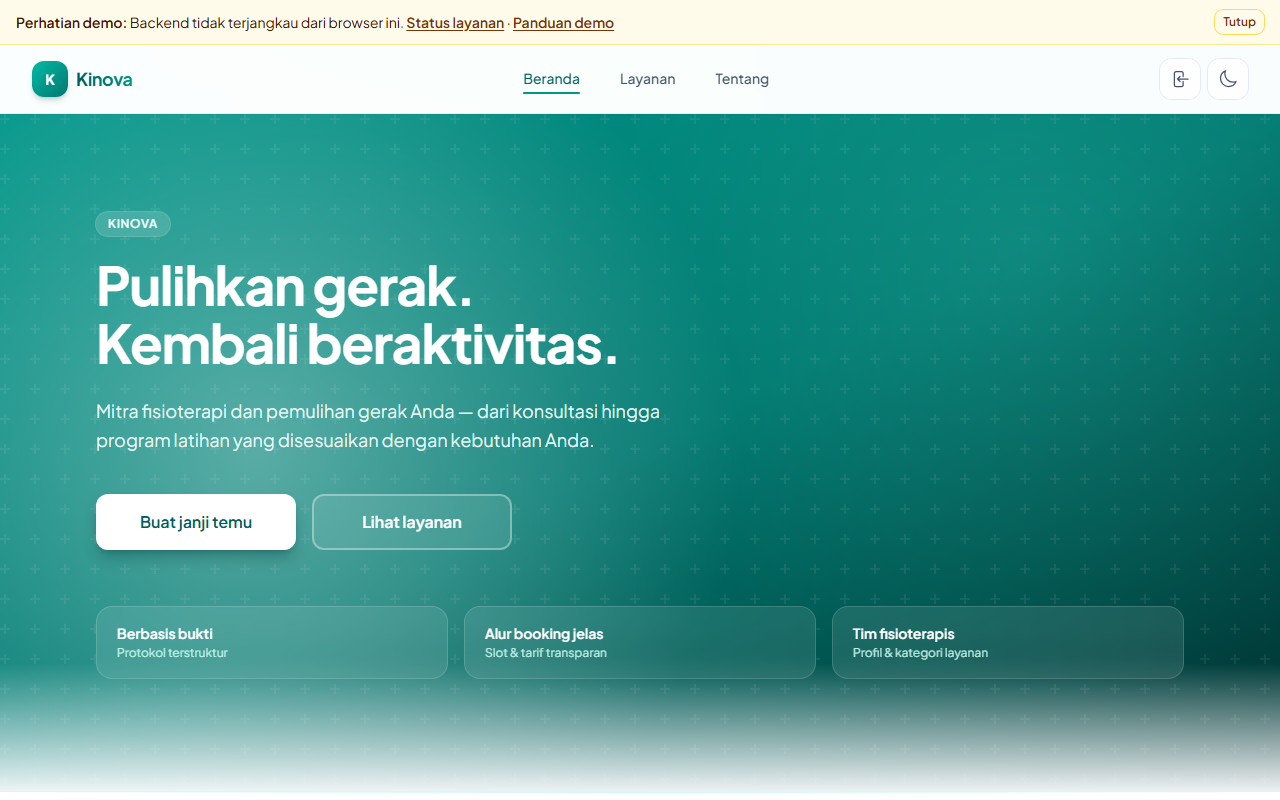
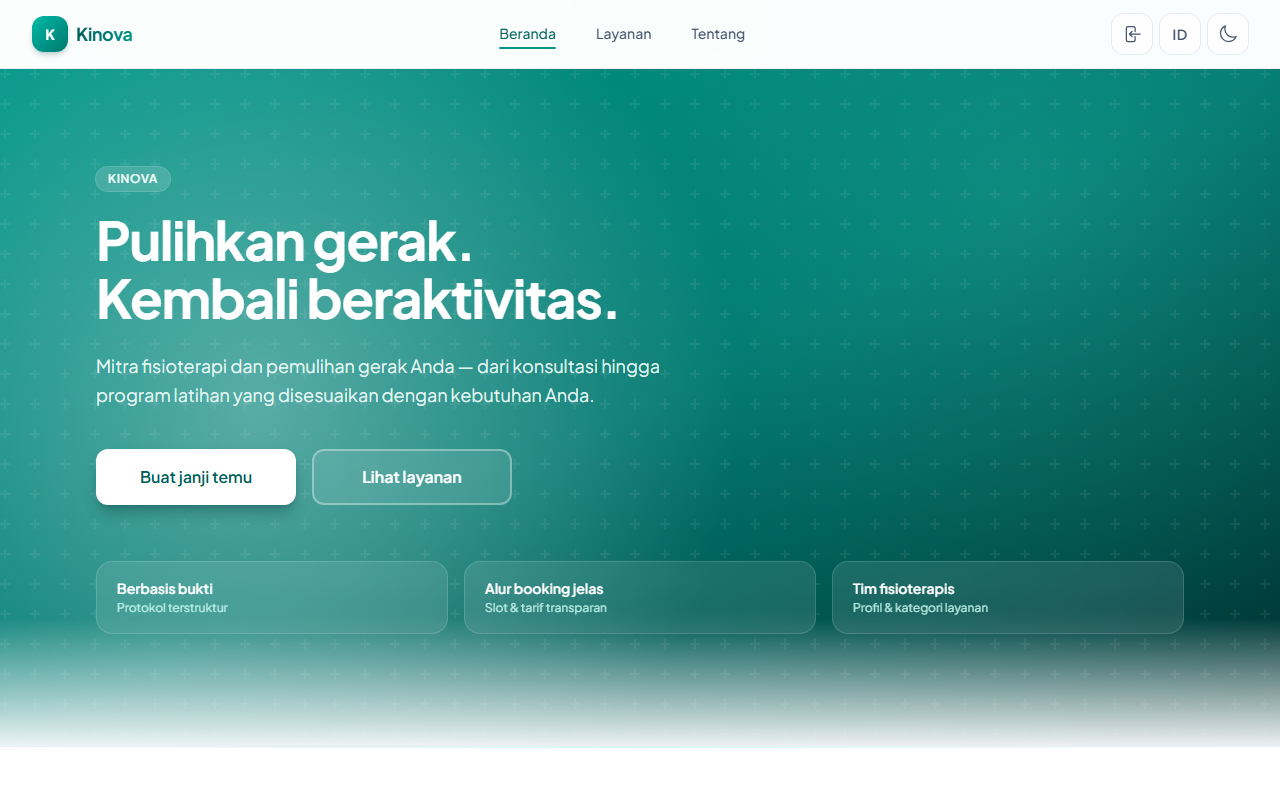
Add Kinova screenshot gallery to the projects showcase.
Refresh live captures across landing, patient, and admin flows, and let visitors switch previews from a thumbnail strip.

diff --git a/src/components/sections/Projects.tsx b/src/components/sections/Projects.tsx
@@ -43,12 +43,18 @@ function ProjectLinks({ project }: { project: Project }) {
   );
 }
 
-function ProjectCardFace({ project }: { project: Project }) {
+function ProjectCardFace({
+  project,
+  imageSrc,
+}: {
+  project: Project;
+  imageSrc?: string;
+}) {
   return (
     <div className="overflow-hidden rounded-2xl border border-border bg-surface shadow-sm">
       <div className="relative aspect-[16/10] bg-bg-muted">
         <Image
-          src={project.image}
+          src={imageSrc ?? project.image}
           alt={`${project.title} project screenshot`}
           fill
           sizes="(max-width: 1024px) 100vw, 480px"
@@ -59,10 +65,60 @@ function ProjectCardFace({ project }: { project: Project }) {
   );
 }
 
+function ProjectGallery({
+  images,
+  activeSrc,
+  onSelect,
+  projectTitle,
+}: {
+  images: string[];
+  activeSrc: string;
+  onSelect: (src: string) => void;
+  projectTitle: string;
+}) {
+  const { locale } = useLocale();
+
+  return (
+    <div className="mt-6">
+      <p className="mb-3 text-xs font-medium uppercase tracking-[0.18em] text-ink-soft">
+        {t(ui.projectScreenshots, locale)}
+      </p>
+      <div className="-mx-1 flex gap-2 overflow-x-auto px-1 pb-1">
+        {images.map((src, index) => {
+          const selected = src === activeSrc;
+          return (
+            <button
+              key={src}
+              type="button"
+              onClick={() => onSelect(src)}
+              aria-label={`${projectTitle} screenshot ${index + 1}`}
+              aria-pressed={selected}
+              className={`relative h-16 w-24 shrink-0 overflow-hidden rounded-lg border transition ${
+                selected
+                  ? "border-ink ring-2 ring-ink/20"
+                  : "border-border opacity-80 hover:opacity-100"
+              }`}
+            >
+              <Image
+                src={src}
+                alt=""
+                fill
+                sizes="96px"
+                className="object-cover object-top"
+              />
+            </button>
+          );
+        })}
+      </div>
+    </div>
+  );
+}
+
 export default function Projects() {
   const { locale } = useLocale();
   const [filter, setFilter] = useState<FilterId>("all");
   const [activeIndex, setActiveIndex] = useState(0);
+  const [previewSrc, setPreviewSrc] = useState<string | null>(null);
 
   const filters: { id: FilterId; label: string }[] = [
     { id: "all", label: t(ui.showAll, locale) },
@@ -82,11 +138,21 @@ export default function Projects() {
 
   useEffect(() => {
     setActiveIndex(0);
+    setPreviewSrc(null);
   }, [filter]);
 
   const activeProject = filteredProjects[activeIndex] ?? filteredProjects[0];
 
+  useEffect(() => {
+    setPreviewSrc(null);
+  }, [activeProject?.title]);
+
   if (!activeProject) return null;
+
+  const gallery = activeProject.images?.length
+    ? activeProject.images
+    : [activeProject.image];
+  const activeImage = previewSrc ?? activeProject.image;
 
   const categoryLabel =
     projectCategories.find((category) => category.id === activeProject.category)
@@ -173,7 +239,24 @@ export default function Projects() {
                             aria-label={`View ${project.title}`}
                             className="w-full text-left"
                           >
-                            <ProjectCardFace project={project} />
+                            <AnimatePresence mode="wait">
+                              <motion.div
+                                key={activeImage}
+                                initial={{ opacity: 0.4 }}
+                                animate={{ opacity: 1 }}
+                                exit={{ opacity: 0.4 }}
+                                transition={{ duration: 0.2 }}
+                              >
+                                <ProjectCardFace
+                                  project={project}
+                                  imageSrc={
+                                    project.title === activeProject.title
+                                      ? activeImage
+                                      : project.image
+                                  }
+                                />
+                              </motion.div>
+                            </AnimatePresence>
                           </button>
                         </Tilt>
                       );
@@ -198,6 +281,14 @@ export default function Projects() {
             <p className="mt-6 text-center text-sm text-ink-soft">
               {t(ui.projectStackHint, locale)}
             </p>
+            {gallery.length > 1 && (
+              <ProjectGallery
+                images={gallery}
+                activeSrc={activeImage}
+                onSelect={setPreviewSrc}
+                projectTitle={activeProject.title}
+              />
+            )}
           </Reveal>
 
           <Reveal delay={0.15}>

diff --git a/src/lib/content.ts b/src/lib/content.ts
@@ -16,6 +16,8 @@ export type Project = {
   tech: string[];
   category: ProjectCategory;
   image: string;
+  /** Extra screenshots shown as a gallery under the active project */
+  images?: string[];
   link?: string;
   repo?: string;
   repos?: ProjectRepo[];
@@ -111,6 +113,10 @@ export const ui = {
   projectStackHint: {
     en: "* Click on stacked cards above to see other projects",
     id: "* Klik kartu di atas untuk melihat proyek lainnya",
+  },
+  projectScreenshots: {
+    en: "Screenshots",
+    id: "Screenshot",
   },
   craftTitle: { en: "Craft & Technology", id: "Keahlian & Teknologi" },
   experienceTitle: { en: "Experience & Education", id: "Pengalaman & Pendidikan" },
@@ -369,6 +375,16 @@ export const projects: Project[] = [
     tech: ["Next.js", "NestJS", "Prisma", "PostgreSQL", "JWT", "SSE"],
     category: "fullstack",
     image: "/projects/kinova.png",
+    images: [
+      "/projects/kinova.png",
+      "/projects/kinova-services.png",
+      "/projects/kinova-about.png",
+      "/projects/kinova-patient-therapists.png",
+      "/projects/kinova-patient-appointment.png",
+      "/projects/kinova-patient-chat.png",
+      "/projects/kinova-admin-dashboard.png",
+      "/projects/kinova-admin-analytics.png",
+    ],
     link: "https://kinova-zeta.vercel.app/",
     repos: [
       {
